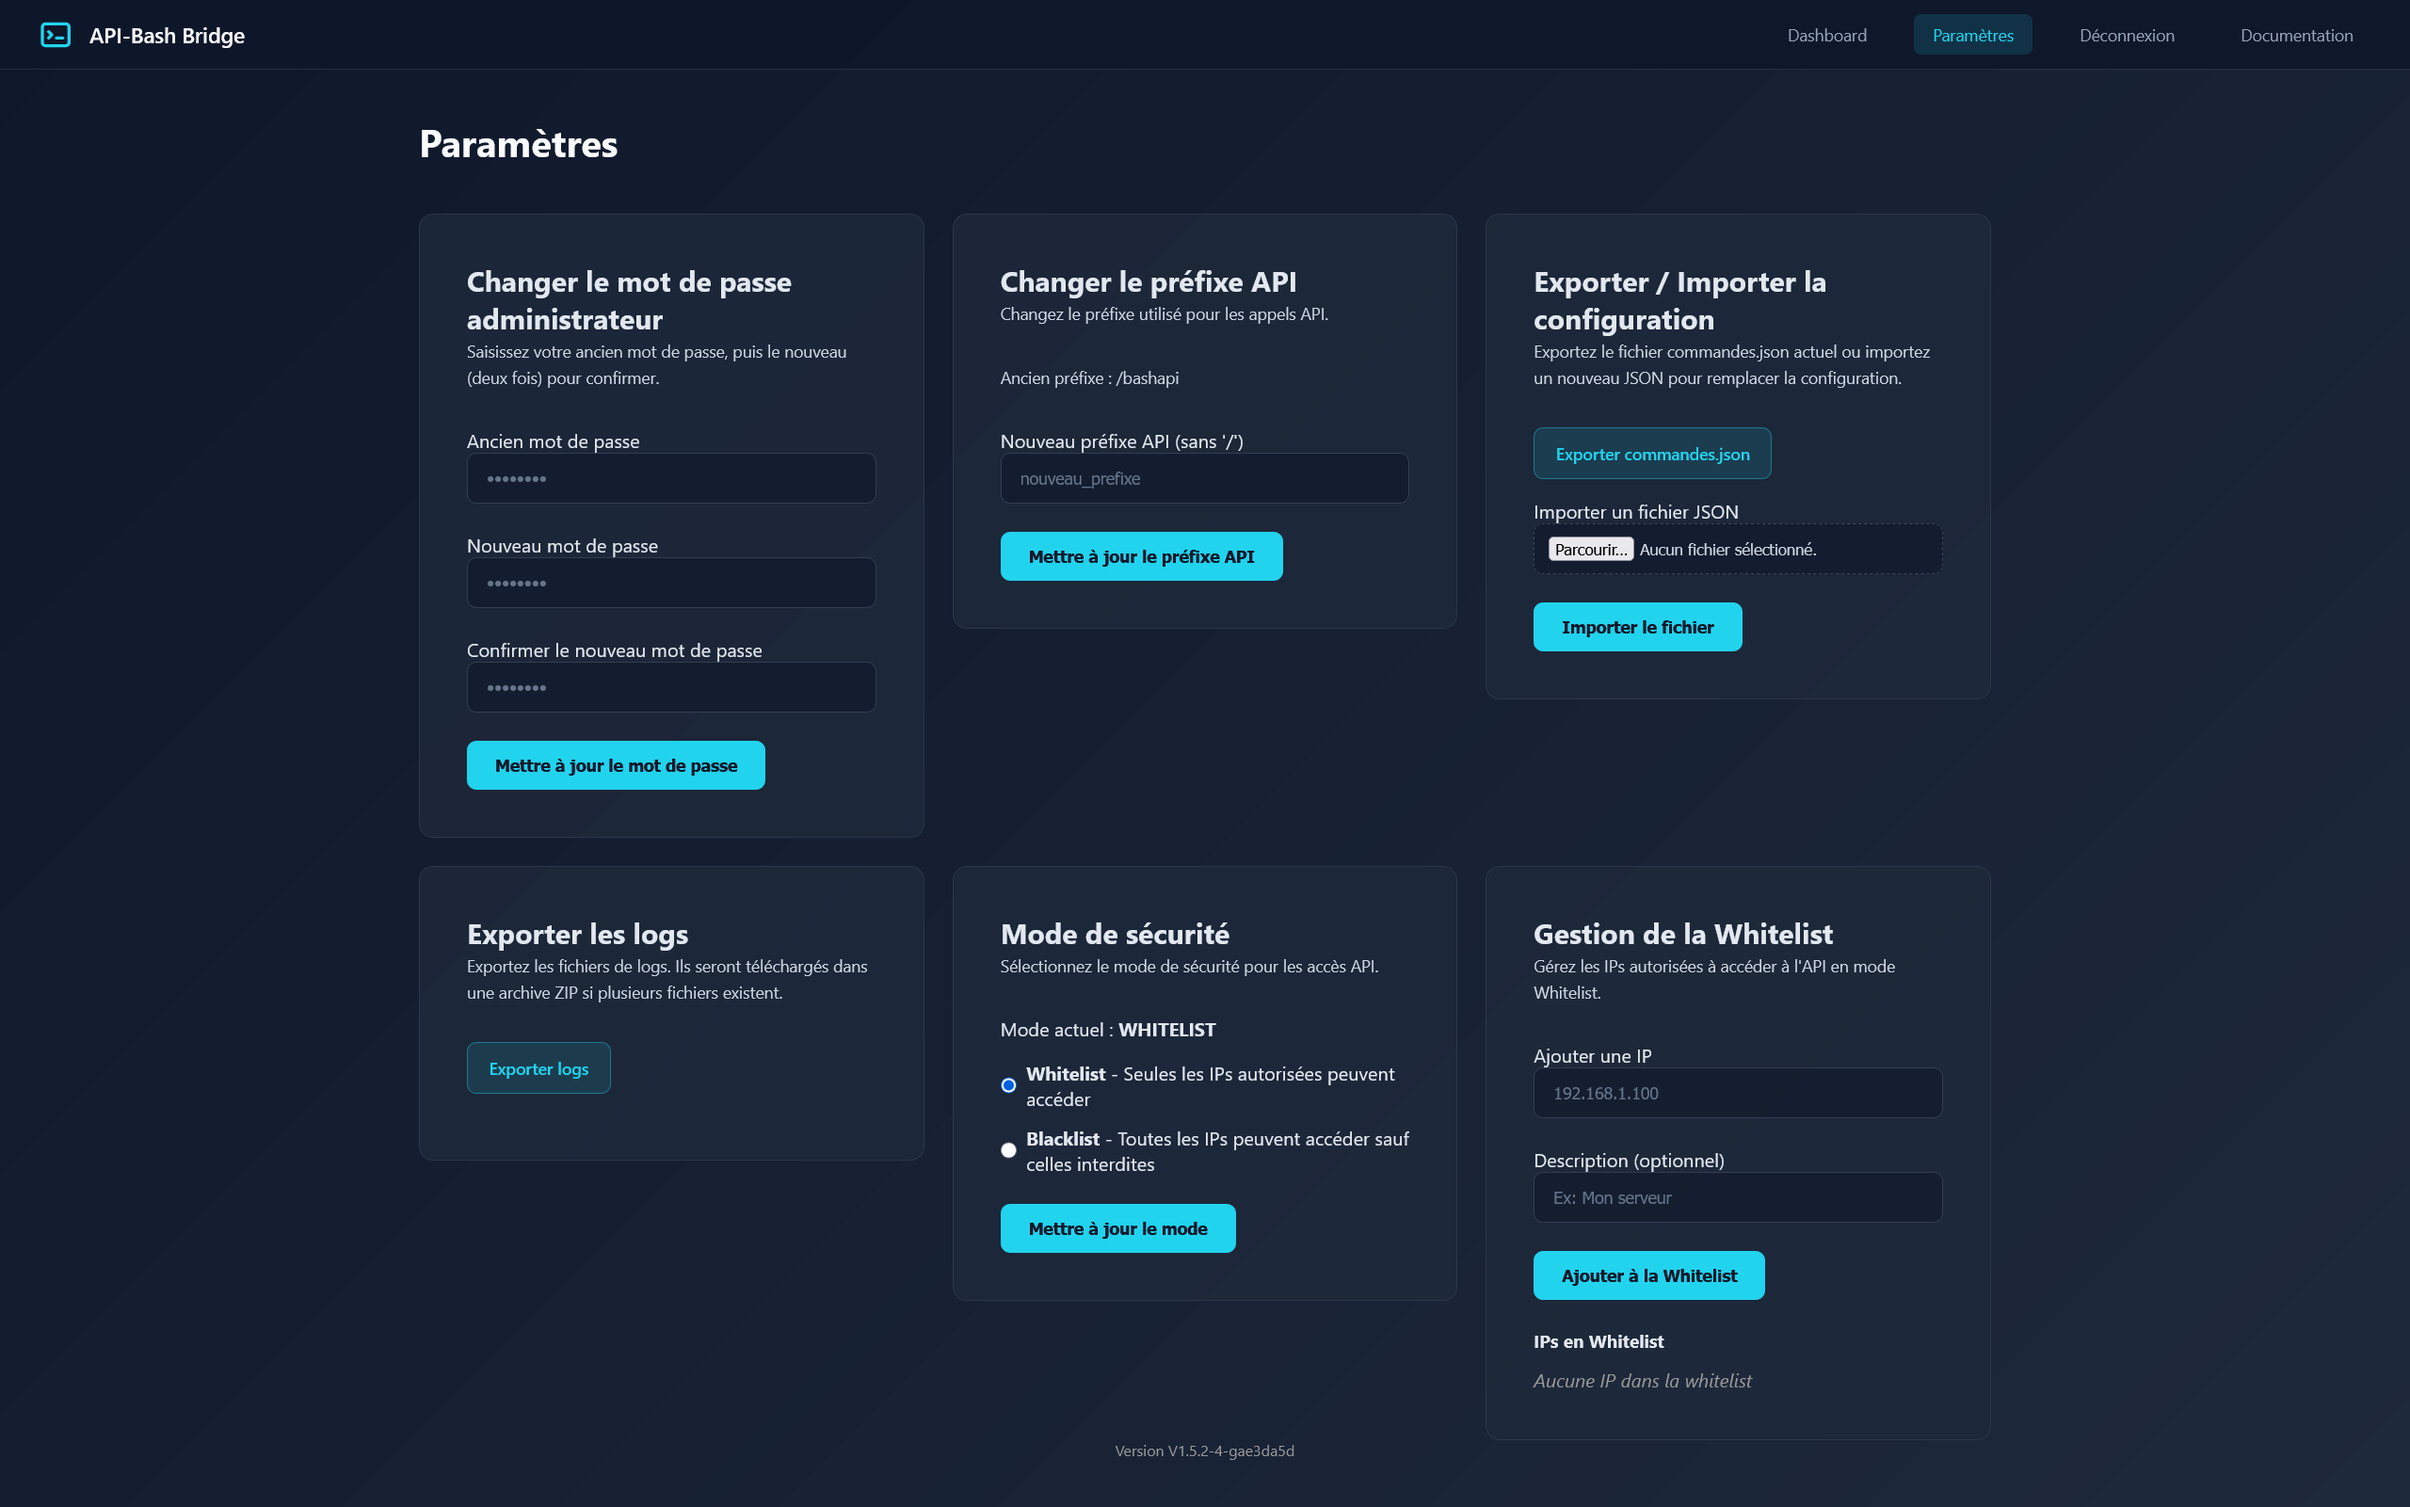
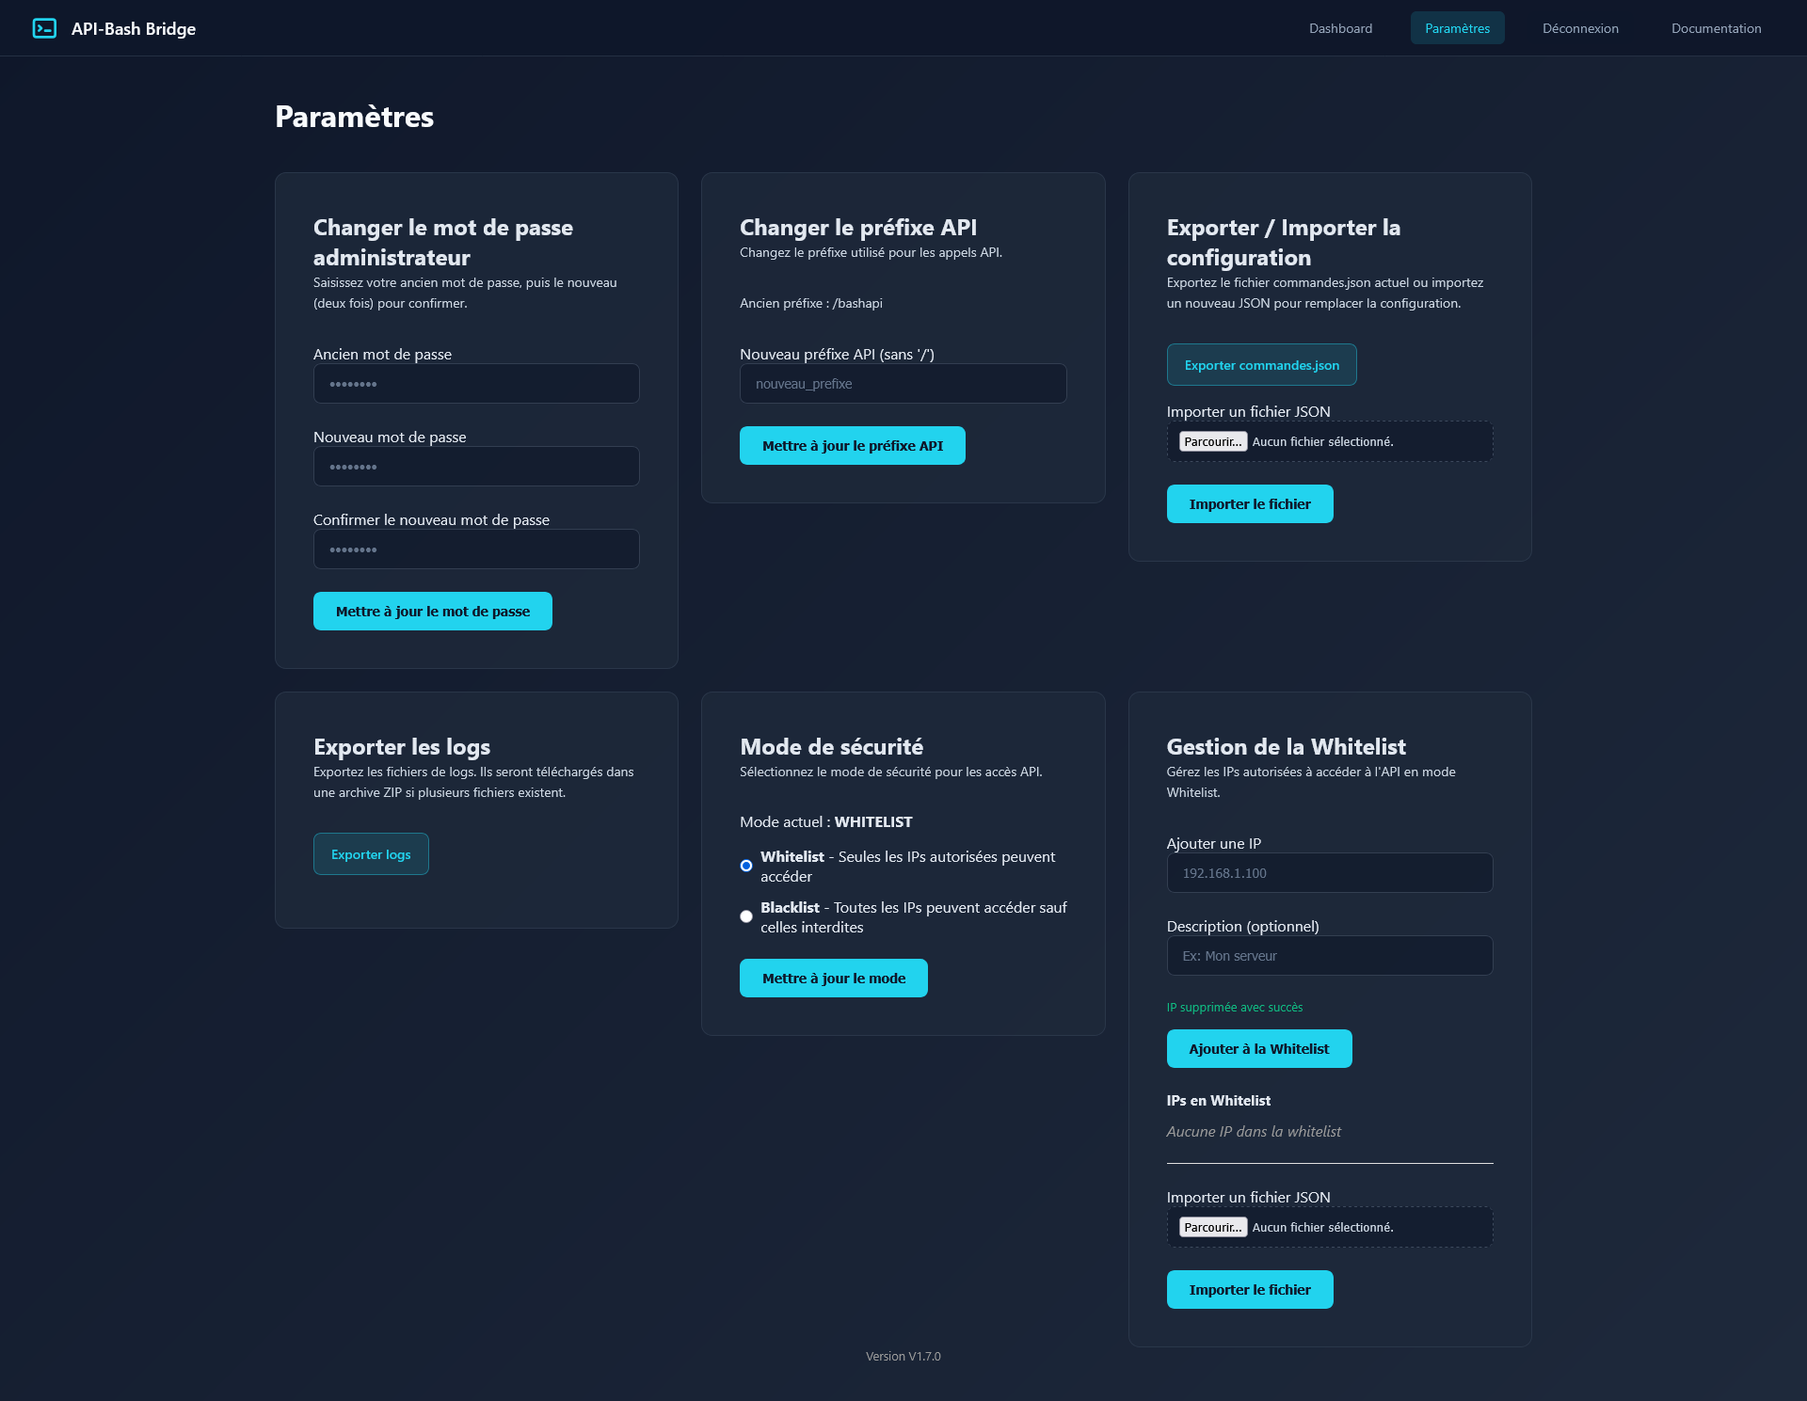
Ajout export/import des listes dans doc. Fixes #24

diff --git a/services/doc_utilisation.md b/services/doc_utilisation.md
@@ -149,6 +149,8 @@ Vous pouvez restreindre l'accès à l'API (et non à l'interface admin) selon l'
 
 *Note : Vous pouvez ajouter une description pour chaque IP (ex: "Serveur Home Assistant") et les activer/désactiver individuellement via un interrupteur.*
 
+Tout comme les commandes, il est possible d'exporter et importer un fichier de configuration de la blacklist et la whitelist.
+
 ### ⚠ Bonnes Pratiques
 
 - **Utilisateur Système :** Les commandes Bash sont exécutées avec les permissions de l'utilisateur Linux qui a lancé le service api-bash-bridge. Évitez de lancer l'application en tant que root.
